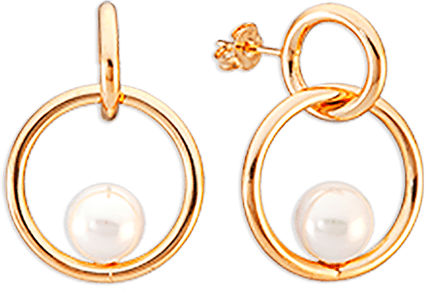
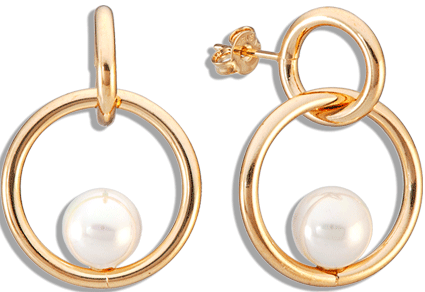
fix: brincos

diff --git a/estilo-media-query.css b/estilo-media-query.css
@@ -813,7 +813,7 @@
     width: 225px;
     height: 155px;
     overflow: hidden;
-    background-image: url(img/720/brincos-flutuante-min.png);
+    background-image: url(img/1080/brincos-flutuante-min.png);
     position: absolute;
     top: 340px;
     left: 17px;
